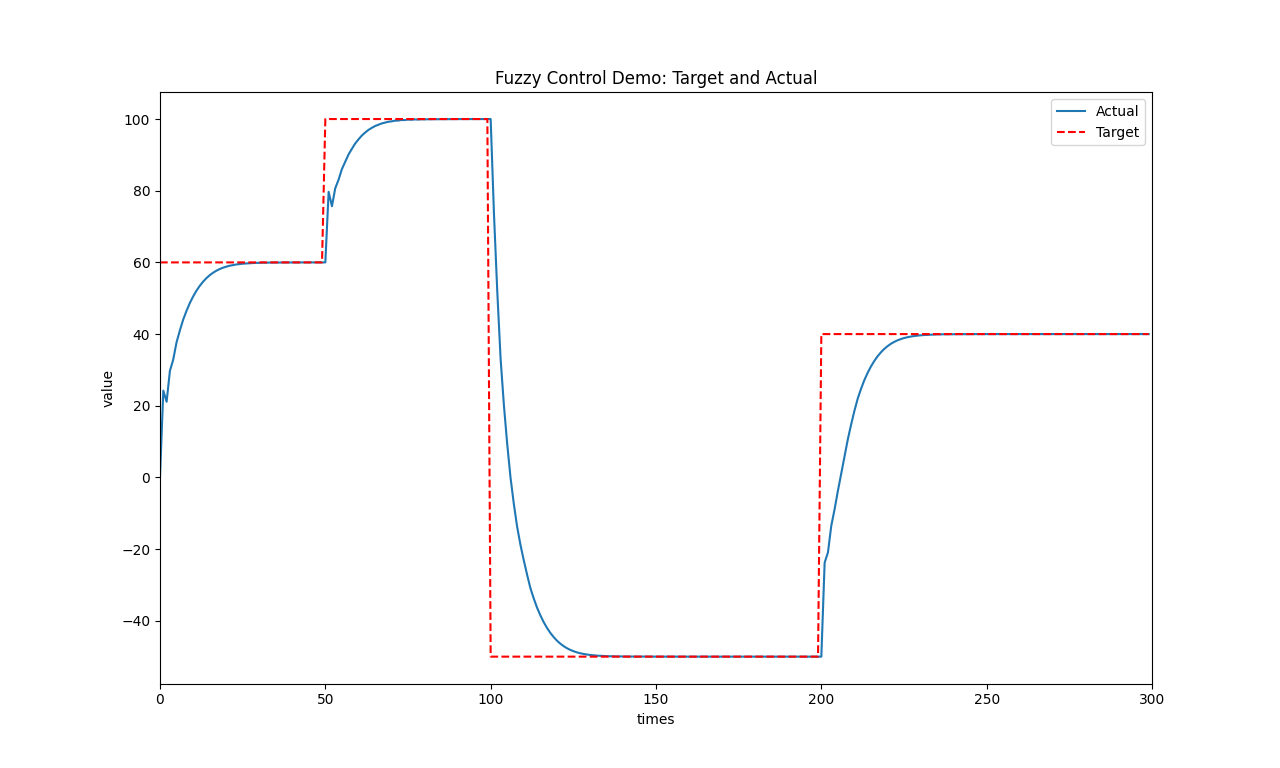
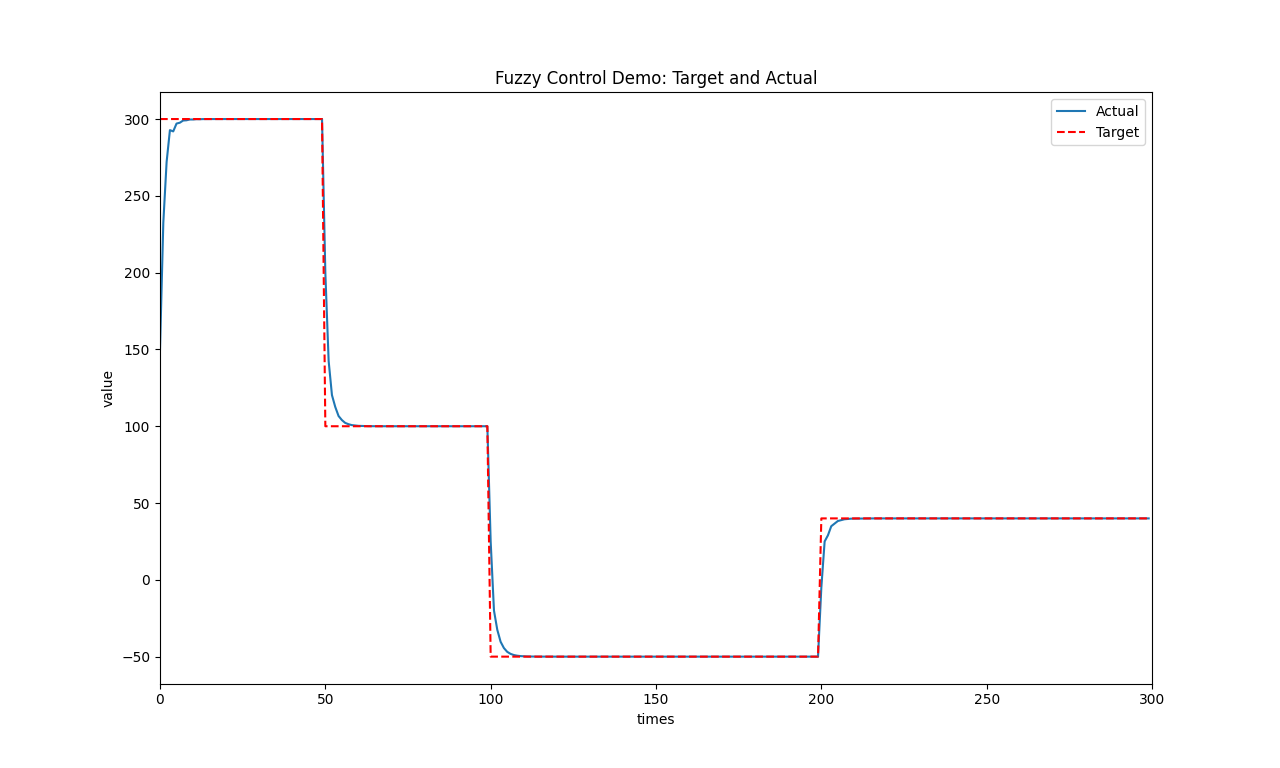
feat: fix plot range and control strategy switch checker

diff --git a/src/fuzzy_logic.cc b/src/fuzzy_logic.cc
@@ -38,7 +38,7 @@ void Fuzzification::fuzzify(scalar input)
         // premise.value(), idx, input);
         if (premise != std::nullopt && fabs(premise.value()) >= fc::eps) {
             premise_pairs_.emplace_back(std::make_pair(premise.value(), idx));
-            dbgmsgln("[fuzzify] %s - input: %.3f premise: %.3f, discourse ID: %llu",
+            dbgmsgln("[fuzzify] %s - input: %.3f premise: %.3f, discourse ID: %zu",
                      getName().c_str(), input, premise.value(), idx);
         }
     }
@@ -113,15 +113,15 @@ void FuzzyLogic::rangeCheck(scalar &input, Membership *ptr)
     }
 }
 
-bool FuzzyLogic::controllerSwitchCheck()
+bool FuzzyLogic::controllerSwitchCheck(scalar err, scalar d_err)
 {
-    if (control_.err > e->membership_->getMaximum() * switch_ratio_
-        || control_.err < e->membership_->getMinimum() * switch_ratio_)
+    if (err > e->getBound() * switch_ratio_
+        || err < -e->getBound() * switch_ratio_)
     {
         return true;
     }
-    if (control_.d_err > ec->membership_->getMaximum() * switch_ratio_
-        || control_.d_err < ec->membership_->getMinimum() * switch_ratio_)
+    if (d_err > ec->getBound() * switch_ratio_
+        || d_err < -ec->getBound() * switch_ratio_)
     {
         return true;
     }
@@ -147,8 +147,18 @@ scalar FuzzyLogic::algo(const Control_t input, bool use_p_ctrl, const scalar out
         = ec->getFactor() * (fabs(d_err) > ec->getBound() ? sign(err) * ec->getBound() : d_err);
     control_.prev_err = fabs(err) > e->getBound() ? sign(err) * e->getBound() : err;
 
-    if (use_p_ctrl && controllerSwitchCheck()) {
-        output = p_ctrl_->algo(control_.err) * u->getFactor();
+    if (use_p_ctrl && controllerSwitchCheck(err, d_err)) {
+        output = p_ctrl_->algo(err);
+        if (output >= u->getBound() * proportional_u_ratio_) {
+            output = u->getBound() * proportional_u_ratio_;
+        }
+        if (output <= -u->getBound() * proportional_u_ratio_) {
+            output = -u->getBound() * proportional_u_ratio_;
+        }
+
+        dbgmsgln("#### [Proportional Control] ####");
+        dbgmsgln("Times    Target    Actual    Error");
+        dbgmsgln("%04zu     %06.2f    %06.2f    %06.3f", iter, input.target, input.actual, err);
     }
     else {
         // ensure the factor will not make e or ec out of range
@@ -172,25 +182,24 @@ scalar FuzzyLogic::algo(const Control_t input, bool use_p_ctrl, const scalar out
         else {
             output = defuzzify_output * u->getFactor();
         }
-    }
 
-    if (output >= u->getBound()) {
-        output = u->getBound();
-    }
-    if (output <= -u->getBound()) {
-        output = -u->getBound();
-    }
-
-    // control info
-    if (iter == 0) {
+        if (output >= u->getBound()) {
+            output = u->getBound();
+        }
+        if (output <= -u->getBound()) {
+            output = -u->getBound();
+        }
+        // control info
+        dbgmsgln("#### [Fuzzy Control] ####");
         dbgmsgln("Times    Target    Actual    Error    DError    PError");
+        dbgmsgln("%04zu     %06.2f    %06.2f    %06.3f   %06.3f    %06.3f", iter, input.target,
+                input.actual, control_.err, control_.d_err, control_.prev_err);
     }
-    dbgmsgln("%04llu     %06.2f    %06.2f    %06.3f   %06.3f    %06.3f", iter++, input.target,
-             input.actual, control_.err, control_.d_err, control_.prev_err);
+    iter += 1;
 
 #if FC_USE_MATPLOTLIB
     control_plot_.emplace_back(Control_t{input.target, input.actual});
-    control_err_plot_.emplace_back(control_);
+    control_err_plot_.emplace_back(Err_t{err, -1/*unused*/, d_err});
 #endif
 
     return output;
@@ -213,7 +222,7 @@ void FuzzyLogic::inference()
             inference_set.weight = e_premise * ec_premise;
             inference_set.rule = static_cast<int>(rule_table_(
                 e_discourse_size - 1 - e_discourse_id, ec_discourse_size - 1 - ec_discourse_id));
-            dbgmsgln("[Inference] rule %llu => RuleTable(%llu, %llu)=%d, Weight=%.4f",
+            dbgmsgln("[Inference] rule %zu => RuleTable(%lu, %lu)=%d, Weight=%.4f",
                      (i * rows + j), e_discourse_id, ec_discourse_id, inference_set.rule,
                      inference_set.weight);
             // If the rule overlaps the map stored, we need to keep the higher weight one.

diff --git a/example/demo.cc b/example/demo.cc
@@ -47,11 +47,11 @@ int main (int argc,char *argv[]) {
     FC_UNUSED(gaussian_params);
 
     fc::FuzzyLogic fuzzy;
-    fuzzy.e->init(100, false, fc::MembershipType::Triangle, triangle_params, TRIANGLE_PARAMS_NUM);
+    fuzzy.e->init(60, false, fc::MembershipType::Triangle, triangle_params, TRIANGLE_PARAMS_NUM);
     // fuzzy.ec->init(200, false, fc::MembershipType::Trapezoid, trapezoid_params, TRAPEZOID_PARAMS_NUM);
     // fuzzy.u->init(30, true, fc::MembershipType::Gaussian, gaussian_params, GAUSSIAN_PARAMS_NUM);
-    fuzzy.ec->init(50, false, fc::MembershipType::Triangle, triangle_params, TRIANGLE_PARAMS_NUM);
-    fuzzy.u->init(60, true, fc::MembershipType::Triangle, triangle_params, TRIANGLE_PARAMS_NUM);
+    fuzzy.ec->init(30, false, fc::MembershipType::Triangle, triangle_params, TRIANGLE_PARAMS_NUM);
+    fuzzy.u->init(15, true, fc::MembershipType::Triangle, triangle_params, TRIANGLE_PARAMS_NUM);
 
     size_t rows = fuzzy.e->membership_->getDiscourseSize();
     size_t cols = fuzzy.ec->membership_->getDiscourseSize();
@@ -73,19 +73,20 @@ int main (int argc,char *argv[]) {
     fuzzy.ec->plotMembershipFunctions();
     fuzzy.u->plotMembershipFunctions();
 
-    fuzzy.p_ctrl_->setProportional(4.2);
+    fuzzy.p_ctrl_->setProportional(2.0);
+    fuzzy.setProportionalURatio(3.0);
 
     // DON'T CHANGE FACTOR RATIO OUT OF RANGE!
-    fuzzy.u->setFactor(2.5, true);
-    fuzzy.setSwitchRatio(0.5);
+    // fuzzy.u->setFactor(2.5, true);
+    fuzzy.setSwitchRatio(1.5);
     fuzzy.getInfo();
 
 #define CONTROL_TEST_CONSTANT_TARGET    (0)
 #define CONTROL_TEST_SINE_TARGET        (1)
-#define CONTROL_TEST_USE_P_CONTROLLER   (1)
+#define CONTROL_TEST_USE_P_CONTROLLER   (0)
 #if CONTROL_TEST_CONSTANT_TARGET
     fc::Control_t control;
-    control.target = 60.0;
+    control.target = 300.0;
     control.actual = 0.0;
 
     const int times = 300;
@@ -97,6 +98,10 @@ int main (int argc,char *argv[]) {
         } else if (i == 200) {
             control.target = 40.0;
         }
+
+        // use forward feedback control
+        control.actual += (control.target - control.actual) * 0.5;
+
         if (CONTROL_TEST_USE_P_CONTROLLER) {
             control.actual += fuzzy.algo(control, true, /*exp^*/0.2);
         } else {
@@ -129,6 +134,10 @@ int main (int argc,char *argv[]) {
         } else if (i <= 5 * 360) {
             control.target = 25 * sin(i * M_PI / 720);
         }
+
+        // use forward feedback control
+        control.actual += (control.target - control.actual) * 0.5;
+
         if (CONTROL_TEST_USE_P_CONTROLLER) {
             control.actual += fuzzy.algo(control, true, /*exp^*/0.2);
         } else {

diff --git a/include/fuzzy/fuzzy_logic.h b/include/fuzzy/fuzzy_logic.h
@@ -93,6 +93,7 @@ public:
     scalar algo(Control_t input, bool use_p_ctrl = false, scalar output_exp_scale = 0.0);
     void setFuzzyRules(const Matrix &rule_table);
     void setSwitchRatio(double switch_ratio) { switch_ratio_ = switch_ratio; }
+    void setProportionalURatio(double ratio) { proportional_u_ratio_ = ratio; }
     void getInfo();
 
 #if FC_USE_MATPLOTLIB
@@ -117,14 +118,15 @@ private:
     scalar defuzzify();
     CentroidPair centroid(size_t rule_id, scalar truncation_premise);
     void rangeCheck(scalar &input, Membership *ptr);
-    bool controllerSwitchCheck();
+    bool controllerSwitchCheck(scalar err, scalar d_err);
 
     int resolution_;
     Matrix rule_table_;
     std::unordered_map<int, scalar> inference_map_;
 
     Err_t control_;
-    double switch_ratio_{0};
+    double switch_ratio_{1.0};
+    double proportional_u_ratio_{1.0};
 };
 
 } // namespace fc

diff --git a/README.md b/README.md
@@ -4,6 +4,8 @@ Realize the basic function of fuzzy logic controller. User can select _Triangle_
 
 You can use _**P-FC**_ controller that combines _proportional controller_ with _fuzzy controller_. This will enhance the system response time and accuracy when input _error_ or _error rate_ high.
 
+> **NOTE:** Fuzzy control can make control more concise, but also make it slow. I use forward feedback in demo to increase the control speed!
+
 <div align="center">
     <img src="assets/fzc_design.svg" alt="Fuzzy logic controller design, HangX-Ma" width=600 />
     <br>
